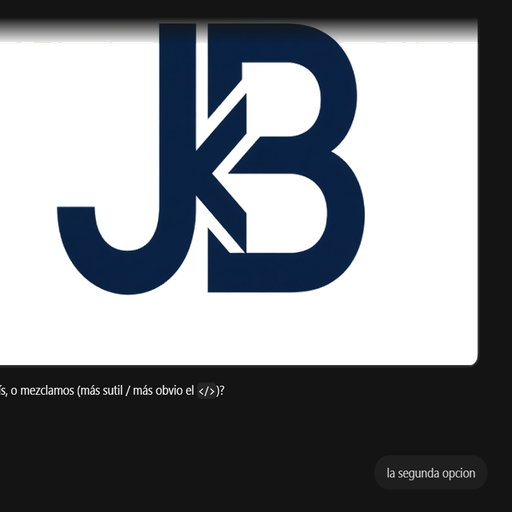
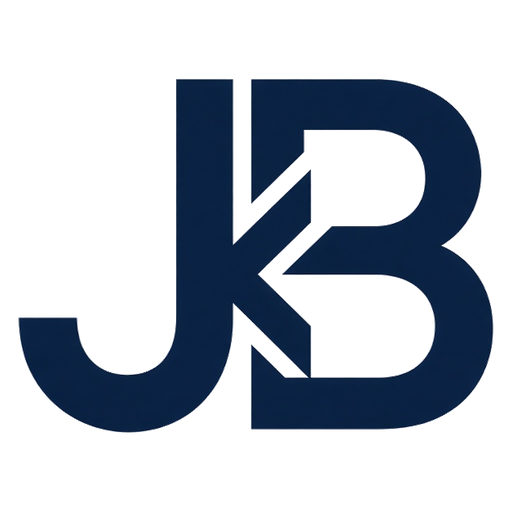
fix: use single original JB PNG for all brand sizes
Delete generated kit variants; derive transparent navy/white sizes
and favicon only from the canonical monogram via resize/recolor.

diff --git a/src/index.html b/src/index.html
@@ -38,13 +38,13 @@
     <link
       rel="icon"
       type="image/png"
-      href="assets/brand/jb-favicon-light-32.png"
+      href="assets/brand/jb-mark-navy-32.png"
       media="(prefers-color-scheme: light)"
     />
     <link
       rel="icon"
       type="image/png"
-      href="assets/brand/jb-favicon-dark-32.png"
+      href="assets/brand/jb-mark-white-32.png"
       media="(prefers-color-scheme: dark)"
     />
     <link rel="icon" type="image/x-icon" href="favicon.ico" />

diff --git a/public/assets/brand/README.md b/public/assets/brand/README.md
@@ -1,12 +1,9 @@
-# Brand — JB monogram (option 2, original only)
+# Brand — single source monogram
 
-Interlocking **JB** with bracket cutouts (`>`), accent `#003049`. Assets are only from the rebuilt kit of the selected original mark.
+Only asset pipeline: one original PNG → white/near-black to alpha → LANCZOS sizes.
+No AI-regenerated variants.
 
-## Shipped
-
-- `jb-mark-navy*` — light UI / default nav (`jb-mark-navy-64.png`)
-- `jb-mark-white*` — dark UI nav
-- `jb-favicon-light*` / `jb-favicon-dark*` — scheme favicons
-- `favicon.ico` — also at site root; apple-touch from `jb-favicon-light-180.png`
-
-No wordmarks, JPG/WebP provisionals, or alternate tiles. Indexing remains blocked until launch.
+- Source: `jb-source.png` (canonical upload)
+- Nav: `jb-mark-navy-64.png` / `jb-mark-white-64.png`
+- Favicon: root `favicon.ico` + navy/white 32 PNG scheme links
+- Apple touch: `/apple-touch-icon.png` from navy-180 on white
